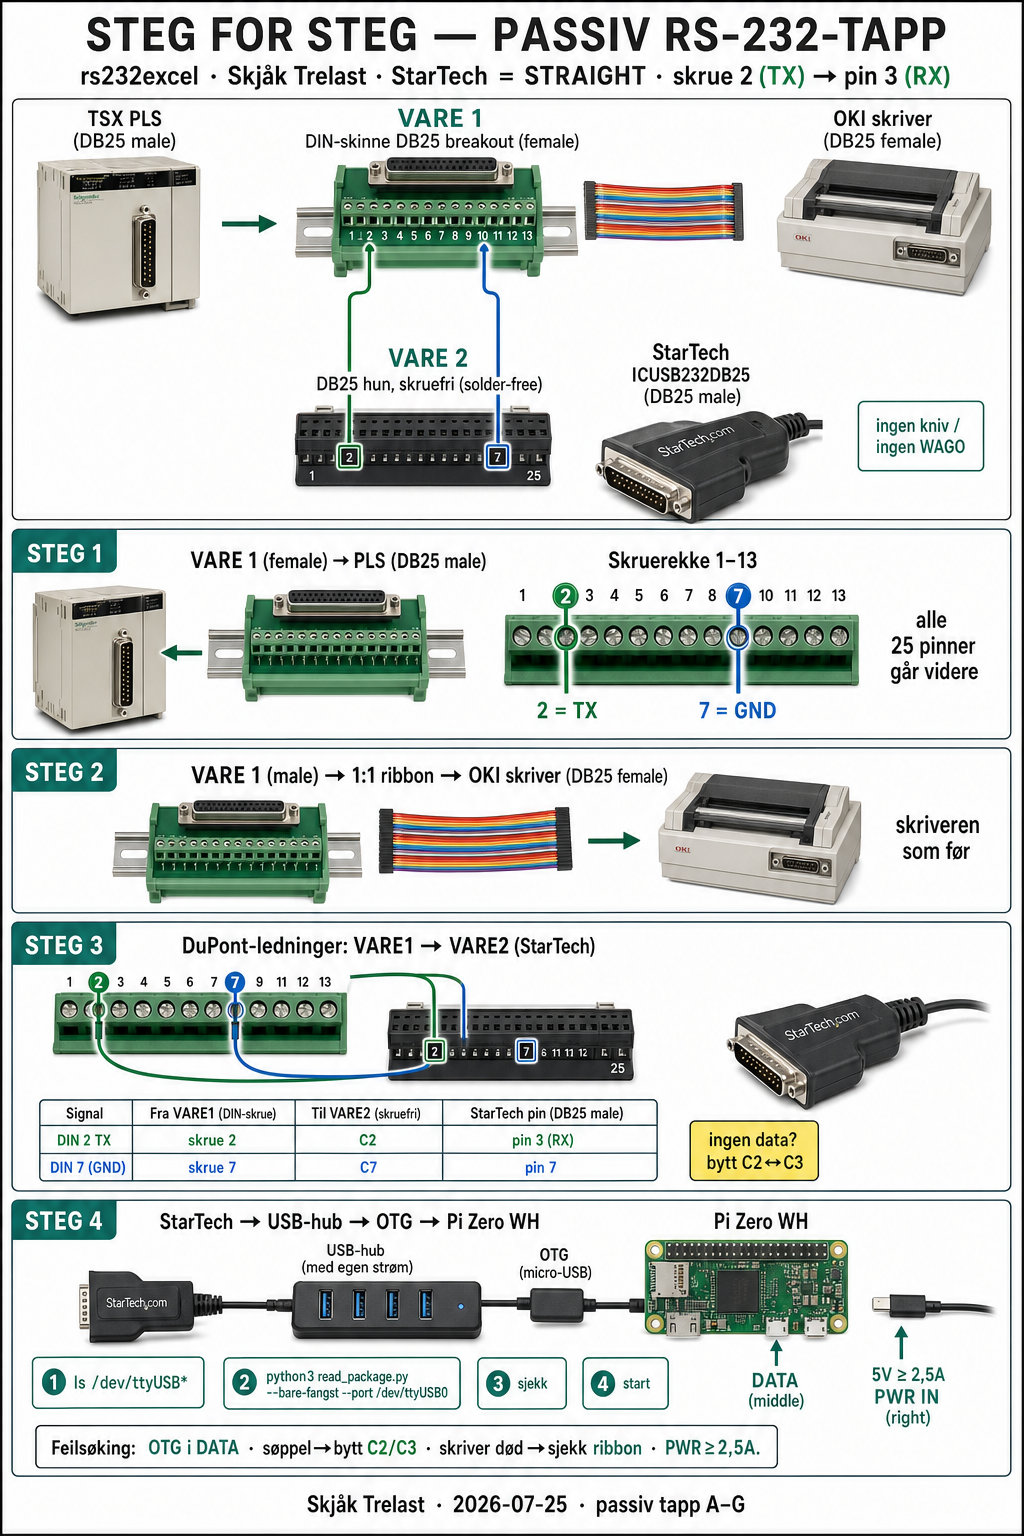
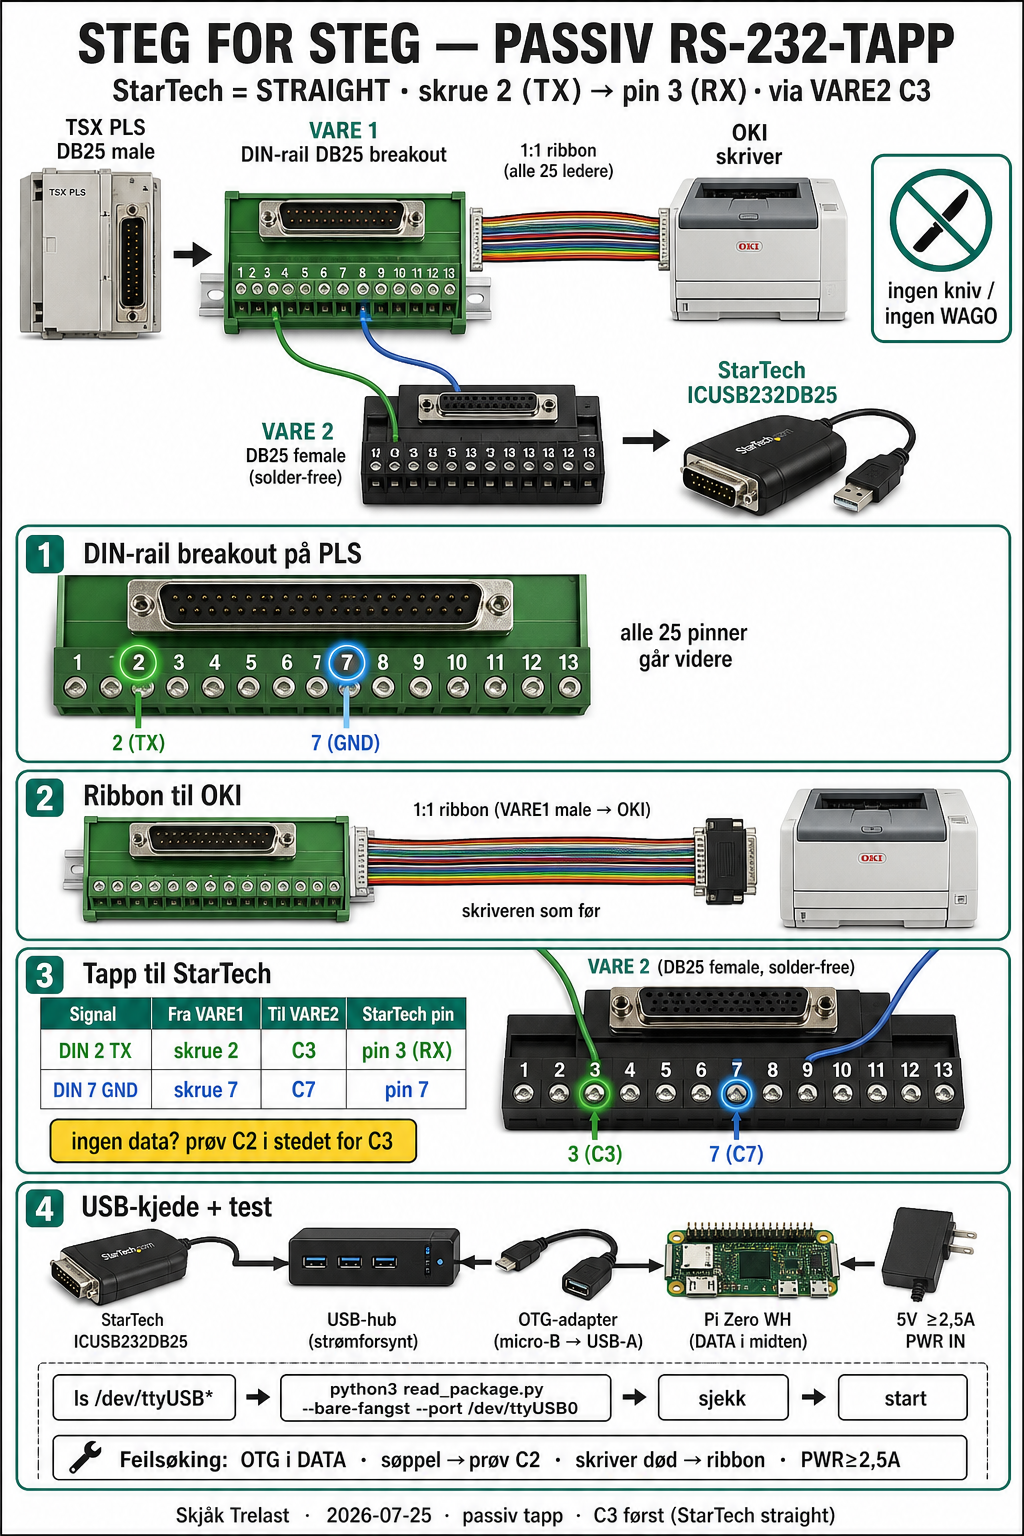
Rett plakat STEG 3: primærvei C3 (ikke C2) for StarTech straight
VARE2 er 1:1 — TX må i C3 for å treffe StarTech pin 3 RX.
Fallback: prøv C2. Tekst i README/wiring/HANDOFF/INSTALLATION synket.

diff --git a/docs/en/wiring.md b/docs/en/wiring.md
@@ -8,7 +8,7 @@ Source of truth (Norwegian lettered guide): [docs/no/wiring.md](../no/wiring.md)
 | **B** | DB25 M↔F ribbon 1:1 | A male → OKI |
 | **C** | DB25 female solder-free terminal | Listen female — StarTech male plugs here |
 | **D** | StarTech USB→serial + DB25 **male** | Into **C** → hub → Pi |
-| **E1** | Wire / DuPont | **A** screw **2** → **C** screw **3** (or 2) |
+| **E1** | Wire / DuPont | **A** screw **2** → **C** screw **3** (StarTech RX; try C2 if no data) |
 | **E2** | Wire / DuPont | **A** screw **7** → **C** screw **7** |
 | **F** | Hub + OTG | To **G** DATA |
 | **G** | Pi Zero WH | Ports below |
@@ -25,11 +25,12 @@ Source of truth (Norwegian lettered guide): [docs/no/wiring.md](../no/wiring.md)
 
 1. **Plant:** PLC male → **A** female. **A** male → **B** (ribbon) → OKI.  
 2. **Tap on A:** **E1** on screw **2**, **E2** on screw **7**.  
-3. **Into C:** **E1** → screw **3** (StarTech/RX; try 2 if no data), **E2** → screw **7**.  
+3. **Into C:** **E1** → screw **C3** (= StarTech pin 3 RX). **E2** → **C7**.  
+   No data? Try **C2** instead of C3.  
 4. **D** DB25 male straight into **C** female.  
 5. **Pi G:** 5V → **PWR IN** (right). **F** OTG → **DATA** (middle). **D** USB → hub.
 
-With StarTech (straight/DTE): start **A2→C3**, **A7→C7**. No data? Swap data pin only (C2↔C3).
+**StarTech = straight:** primary path **A2→C3→pin 3 (RX)**. VARE2/C is 1:1 (screw N = DB25 pin N), so TX must land on **C3**, not C2.
 
 OLED **JMD0.96D-1**: DuPont F–F to pins 1/3/5/6 (optional).
 

diff --git a/docs/no/wiring.md b/docs/no/wiring.md
@@ -12,7 +12,7 @@
 | **B** | Båndkabel M↔F | A → OKI |
 | **C** | DB25 hunn-terminal | Lytte — én hunn + skruer |
 | **D** | StarTech USB→serie + DB25-hann (har) | Rett inn i **C** |
-| **E1** | Ledning / DuPont | **A**-skrue **2** → **C**-skrue **3** (prøv 2 hvis null data) |
+| **E1** | Ledning / DuPont | **A**-skrue **2** → **C**-skrue **3** (StarTech RX; prøv C2 hvis null data) |
 | **E2** | Ledning / DuPont | **A**-skrue **7** → **C**-skrue **7** |
 | **F** | Hub + OTG | Til **G** DATA |
 | **G** | Pi Zero WH | Se porter under |
@@ -31,12 +31,13 @@ Fra **venstre → høyre**:
 
 1. **Anlegg:** PLS-hann → **A** (DB25-MG)-hunn. **A**-hann → **B** (bånd) → OKI.  
 2. **Tapp på A = DB25-MG:** **E1** i skrue **2**, **E2** i skrue **7**.  
-3. **Inn på C = DB25 hunn-terminal (lytte):** **E1** → skrue **3** (StarTech/RX; prøv 2 hvis null data), **E2** → skrue **7**.  
+3. **Inn på C = DB25 hunn-terminal (lytte):** **E1** → skrue **C3** (= StarTech pin 3 RX). **E2** → **C7**.  
+   Ingen data? Prøv **C2** i stedet for C3.  
 4. **D = StarTech** DB25-hann rett inn i **C** sin hunn-front.  
 5. **Pi G:** 5V → **PWR IN** (høyre). **F** OTG → **DATA** (midt). **D** USB → hub.
 
 OLED **JMD0.96D-1**: DuPont F–F til pin 1/3/5/6 (valgfritt).
 
-Test: `python3 read_package.py --raw-capture --port /dev/ttyUSB0`
+Test: `python3 read_package.py --bare-fangst --port /dev/ttyUSB0`
 
 *English: [docs/en/wiring.md](../en/wiring.md)*

diff --git a/README.en.md b/README.en.md
@@ -28,12 +28,13 @@
 
 <p style="font-size: 1.05em">
 A Raspberry Pi listens silently on the RS-232 line between a Telemecanique TSX PLC and an OKI Microline 280. Every timber package label is parsed to CSV/Excel — no manual entry.
-<strong>No knife, no WAGO.</strong> StarTech straight: screw <b>2 → pin 3 (RX)</b>.
+<strong>No knife, no WAGO.</strong> StarTech straight: screw <b>2 → VARE2 C3 → pin 3 (RX)</b>
+(no data? try C2).
 </p>
 
 <img src="docs/en/img/tap-mated.png" width="100%" alt="Step-by-step passive RS-232 tap, StarTech straight 2→3"/>
 
-The tap is **physically read-only**: only TX+GND from DIN-rail breakout screws 2/7 to solder-free female → StarTech **ICUSB232DB25** (straight: screw 2 → pin 3 RX). Signal to `/dev/ttyUSB0`, not GPIO. The printer keeps printing as before. Guide: [docs/en/wiring.md](docs/en/wiring.md) · [HANDOFF-CLAUDE.md](docs/no/HANDOFF-CLAUDE.md).
+The tap is **physically read-only**: only TX+GND from DIN-rail breakout screws 2/7 to solder-free female **C3**/C7 → StarTech **ICUSB232DB25** pin 3 RX (straight; fallback C2). Signal to `/dev/ttyUSB0`, not GPIO. The printer keeps printing as before. Guide: [docs/en/wiring.md](docs/en/wiring.md) · [HANDOFF-CLAUDE.md](docs/no/HANDOFF-CLAUDE.md).
 
 ---
 

diff --git a/README.md b/README.md
@@ -35,14 +35,15 @@
 <p style="font-size: 17px; line-height: 1.55">
 En Raspberry Pi lytter <b>passivt</b> på RS-232-linja mellom en Telemecanique TSX PLS
 og en OKI Microline 280. Hver pakkelapp parses til CSV/Excel — ingen manuell registrering.
-<b>Ingen kniv, ingen WAGO.</b> StarTech straight: skrue <b>2 → pin 3 (RX)</b>.
+<b>Ingen kniv, ingen WAGO.</b> StarTech straight: skrue <b>2 → VARE2 C3 → pin 3 (RX)</b>
+(ingen data? prøv C2).
 </p>
 
 <img src="docs/no/img/steg-for-steg-passiv-rs232-tapp.png" width="100%" alt="Steg for steg: passiv RS-232-tapp, StarTech straight 2→3"/>
 
 <p style="font-size: 16px; line-height: 1.5">
 Tappen er <b>fysisk skrivebeskyttet</b>: kun TX+GND fra DIN-rail breakout (skrue 2/7)
-til loddefri hunn → StarTech <b>ICUSB232DB25</b> (straight: skrue 2 → pin 3 RX).
+til loddefri hunn <b>C3</b> → StarTech <b>ICUSB232DB25</b> pin 3 RX (straight; fallback C2).
 Signal til <code>/dev/ttyUSB0</code>, ikke GPIO. Skriveren fortsetter som før.
 Steg for steg: <a href="docs/no/wiring.md">docs/no/wiring.md</a> ·
 <a href="docs/no/HANDOFF-CLAUDE.md">HANDOFF-CLAUDE.md</a>.

diff --git a/docs/no/HANDOFF-CLAUDE.md b/docs/no/HANDOFF-CLAUDE.md
@@ -89,9 +89,9 @@ Ingen kniv/WAGO når A brukes.
 | skrue **2** | TX | → | skrue **3** (RX) — prøv først* |
 | skrue **7** | GND | → | skrue **7** |
 
-\*Bruksanvisningsbildene viser ofte 2→2 som «prøv først» for null modem.  
-**Med StarTech (ikke null modem):** start med **A2 → C3**, **A7 → C7**.  
-Null data? Bytt bare datapinnen (C2 ↔ C3).
+**StarTech = straight (ikke null modem):** primærvei **A2 → C3 → pin 3 (RX)**, **A7 → C7**.  
+VARE2/C er 1:1 (skrue N = DB25-pin N) — derfor må TX inn på **C3**, ikke C2.  
+Ingen data? **Prøv C2 i stedet for C3** (fallback hvis adapteren krysser internt).
 
 La C-skruer utenom 2/3 og 7 stå **tomme** (ikke koble StarTech TX ut tilbake til anlegget).
 
@@ -168,7 +168,7 @@ Tester: `cd python/no && python3 -m unittest test_register.py`
 ## 8. Sjekkliste montering
 
 - [ ] A mellom PLS og OKI (via B)  
-- [ ] E1: A2 → C2 eller C3 (StarTech: start C3)  
+- [ ] E1: A2 → **C3** (StarTech pin 3 RX); fallback C2 hvis null data  
 - [ ] E2: A7 → C7  
 - [ ] D (StarTech DB25 hann) i C hunn  
 - [ ] D USB i hub → OTG → G DATA  
